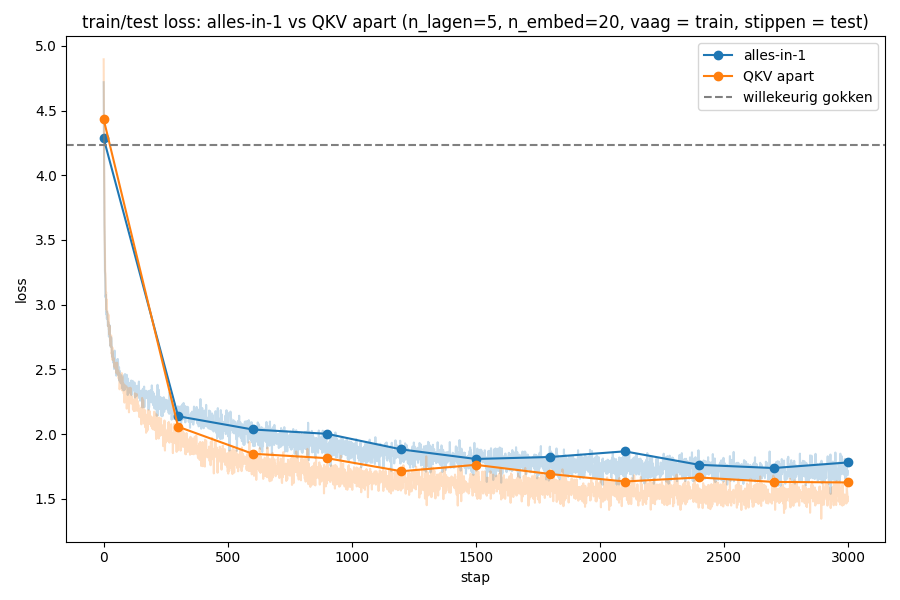
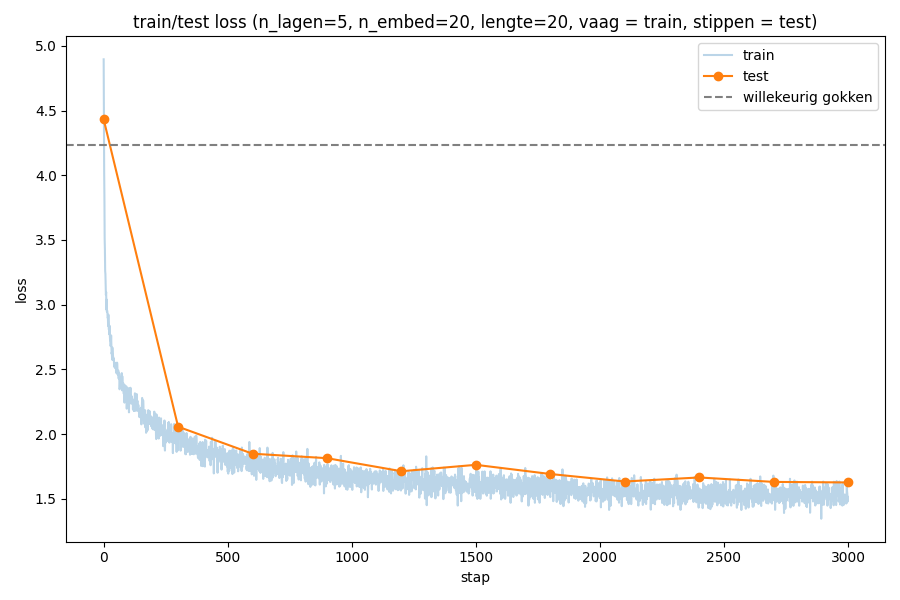
ok

diff --git a/experiment/exp.py b/experiment/exp.py
@@ -15,7 +15,7 @@ import torch.nn.functional as F
 TEKST_PAD = Path(__file__).parent / "pinkeltje_schoon.txt"
 TRAIN_FRACTIE = 0.9        # aandeel van de tekst dat train wordt, de rest is test
 
-LENGTE = 20                 # context length: aantal karakters dat het model terugkijkt
+LENGTE = 20                 # context length; 5, 40 en 60 gaven allemaal dezelfde loss — 20 is genoeg
 BATCH_AANTAL = 64           # stukjes per trainings-batch
 TEST_BATCH_AANTAL = 256     # stukjes per test-batch (groter = stabielere meting)
 
@@ -232,14 +232,20 @@ class AffiniteitsModel(nn.Module):
         return scores, gewichten  # gewichten van de laatste laag, voor inspectie
 
 
-def genereer(model, tokenizer, start, n_nieuw=40, generator=None):
+def genereer(model, tokenizer, start, n_nieuw=40, lengte=LENGTE, generator=None):
     """Genereer karakter voor karakter verder op `start`, door telkens uit de
-    voorspelde kansverdeling te samplen (niet steeds de meest waarschijnlijke)."""
+    voorspelde kansverdeling te samplen (niet steeds de meest waarschijnlijke).
+
+    De context wordt afgekapt op de laatste `lengte` tokens: dat is waar het
+    model op getraind is. Zonder die afkapping groeit de invoer door tot voorbij
+    `lengte`, en dan gebruikt het model rijen van pos_embed die tijdens training
+    nooit aan bod kwamen — die staan dus nog op hun willekeurige startwaarde.
+    """
     model.eval()
     ids = torch.tensor([tokenizer.encode(start)], dtype=torch.long)  # (1, T)
     with torch.no_grad():
         for _ in range(n_nieuw):
-            scores, _ = model(ids)
+            scores, _ = model(ids[:, -lengte:])
             kansen = torch.softmax(scores[0, -1], dim=-1)  # kansen voor het laatste teken
             volgend = torch.multinomial(kansen, num_samples=1, generator=generator)
             ids = torch.cat([ids, volgend.unsqueeze(0)], dim=1)
@@ -297,7 +303,7 @@ def train_affiniteitsmodel(
             test_stappen.append(stap)
             test_losses.append(loss_t.item())
             huidige_lr = optimizer.param_groups[0]["lr"]
-            sample = genereer(model, tokenizer, start=genereer_start, n_nieuw=40)
+            sample = genereer(model, tokenizer, start=genereer_start, n_nieuw=40, lengte=lengte)
             print(f"  stap {stap:>5}  train loss {loss_b.item():.3f}  test loss {loss_t.item():.3f}  lr {huidige_lr:.5f}  sample: {sample!r}")
 
     return model, train_losses, test_stappen, test_losses
@@ -363,31 +369,24 @@ if __name__ == "__main__":
     train_ids, test_ids = ids_alles[:split], ids_alles[split:]
     print(f"\ntrain: {len(train_ids)} tekens, test: {len(test_ids)} tekens")
 
-    # config hierboven (N_LAGEN=5, N_EMBED, LENGTE, ...) vast, nu opnieuw: alles-in-1 vs QKV apart
-    varianten = {"alles-in-1": dict(losse_qk=False, losse_v=False), "QKV apart": dict(losse_qk=True, losse_v=True)}
-    resultaten = {}
-    for naam, opts in varianten.items():
-        _, train_losses, test_stappen, test_losses = train_affiniteitsmodel(
-            n_lagen=N_LAGEN, n_embed=N_EMBED, train_ids=train_ids, test_ids=test_ids, tokenizer=tokenizer,
-            lengte=LENGTE, gebruik_positie=GEBRUIK_POSITIE, gebruik_feedforward=GEBRUIK_FEEDFORWARD,
-            gebruik_layernorm=GEBRUIK_LAYERNORM, gebruik_masker=GEBRUIK_MASKER, dropout=DROPOUT, **opts,
-            aantal_train=BATCH_AANTAL, aantal_test=TEST_BATCH_AANTAL,
-            lr=LEERRATE, n_stappen=N_STAPPEN, eval_interval=EVAL_INTERVAL, seed=SEED,
-        )
-        resultaten[naam] = (train_losses, test_stappen, test_losses)
+    # één training met de vaste config hierboven
+    _, train_losses, test_stappen, test_losses = train_affiniteitsmodel(
+        n_lagen=N_LAGEN, n_embed=N_EMBED, train_ids=train_ids, test_ids=test_ids, tokenizer=tokenizer,
+        lengte=LENGTE, gebruik_positie=GEBRUIK_POSITIE, gebruik_feedforward=GEBRUIK_FEEDFORWARD,
+        losse_qk=LOSSE_QK, losse_v=LOSSE_V,
+        gebruik_layernorm=GEBRUIK_LAYERNORM, gebruik_masker=GEBRUIK_MASKER, dropout=DROPOUT,
+        aantal_train=BATCH_AANTAL, aantal_test=TEST_BATCH_AANTAL,
+        lr=LEERRATE, n_stappen=N_STAPPEN, eval_interval=EVAL_INTERVAL, seed=SEED,
+    )
 
-    # plotje: train/test loss, alles-in-1 vs QKV apart, in dezelfde kleur per model
+    # plotje: train/test loss over de training heen
     plt.figure(figsize=(9, 6))
-    kleuren = plt.cm.tab10.colors
-    for i, naam in enumerate(varianten):
-        train_losses, test_stappen, test_losses = resultaten[naam]
-        kleur = kleuren[i % len(kleuren)]
-        plt.plot(range(len(train_losses)), train_losses, color=kleur, alpha=0.25)
-        plt.plot(test_stappen, test_losses, color=kleur, marker="o", label=naam)
+    plt.plot(range(len(train_losses)), train_losses, alpha=0.3, label="train")
+    plt.plot(test_stappen, test_losses, marker="o", label="test")
     plt.axhline(max_loss.item(), color="gray", linestyle="--", label="willekeurig gokken")
     plt.xlabel("stap")
     plt.ylabel("loss")
-    plt.title(f"train/test loss: alles-in-1 vs QKV apart (n_lagen={N_LAGEN}, n_embed={N_EMBED}, vaag = train, stippen = test)")
+    plt.title(f"train/test loss (n_lagen={N_LAGEN}, n_embed={N_EMBED}, lengte={LENGTE}, vaag = train, stippen = test)")
     plt.legend()
     plt.tight_layout()
     plot_pad = Path(__file__).parent / "loss.png"
